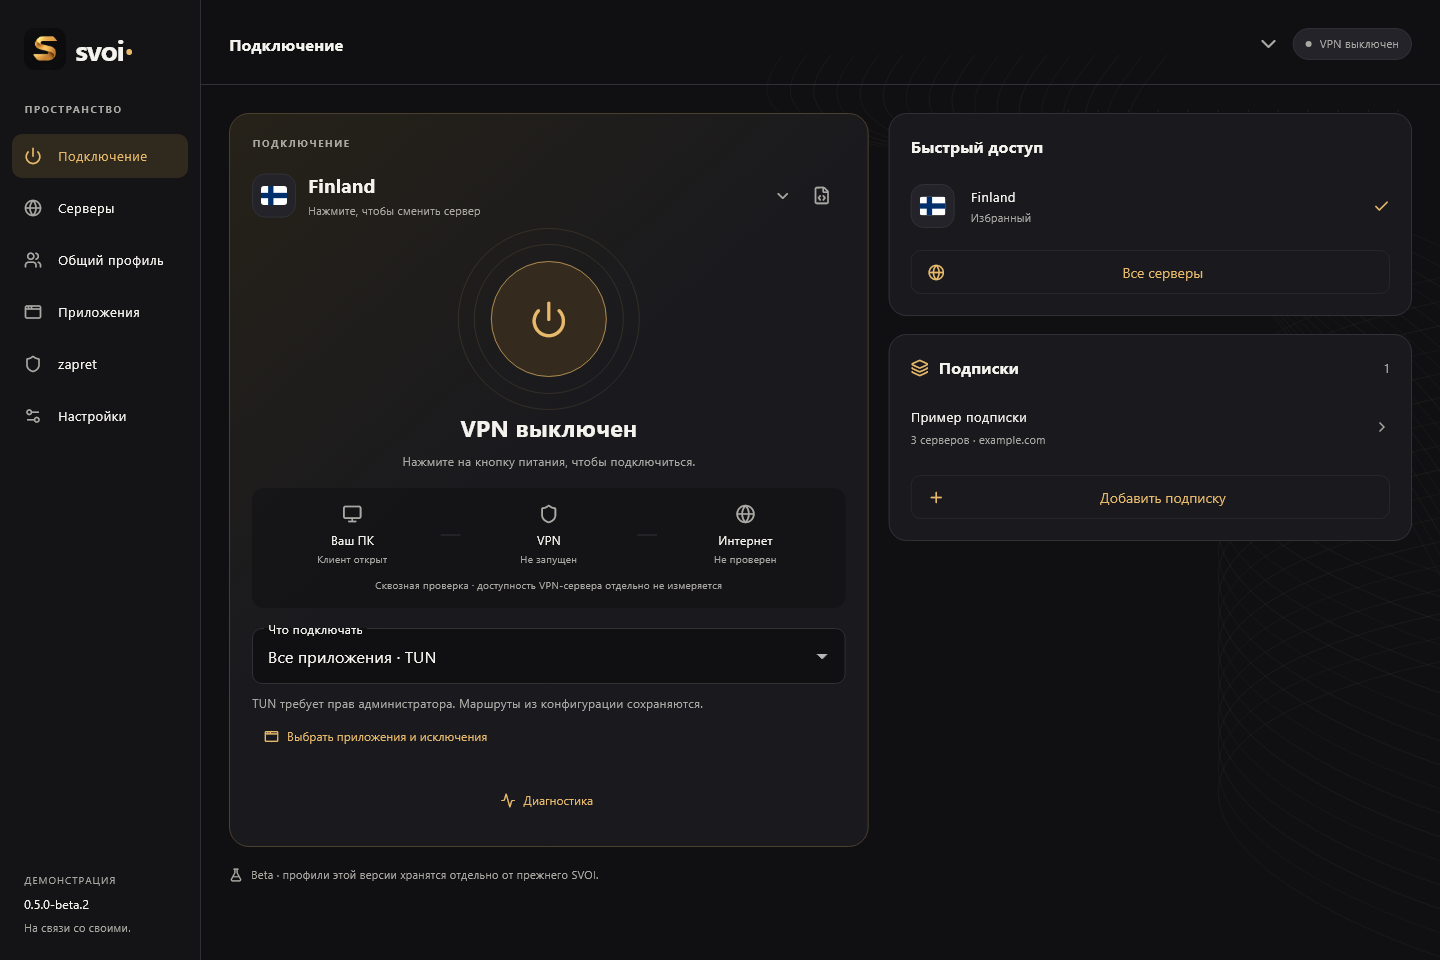
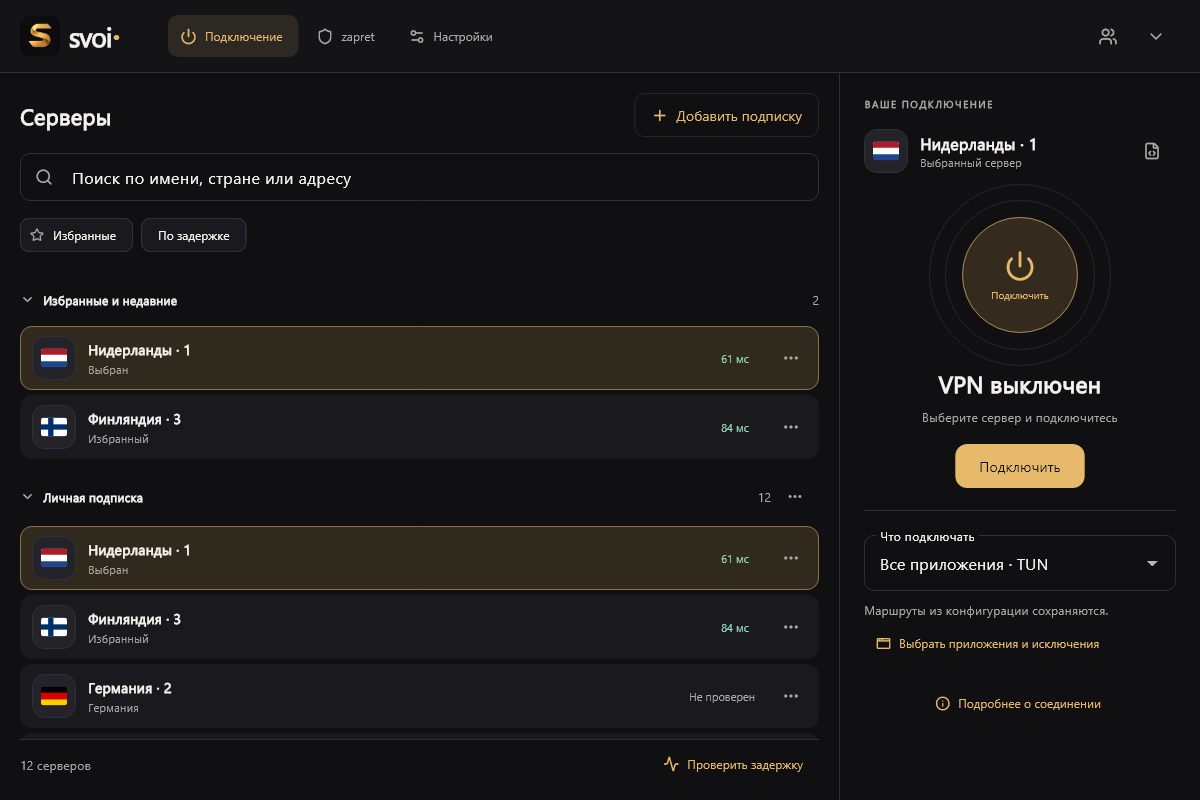
Release Windows beta.8 with unified connection UI

diff --git a/flutter_client/lib/features.dart b/flutter_client/lib/features.dart
@@ -1,6 +1,6 @@
 part of 'main.dart';
 
-const clientVersion = '0.5.0-beta.7';
+const clientVersion = '0.5.0-beta.8';
 
 class ConfigPane extends StatelessWidget {
   const ConfigPane({

diff --git a/backend/main.go b/backend/main.go
@@ -26,7 +26,7 @@ import (
 )
 
 var appVersion = "0.4.0-prebeta.3"
-var nativeVersion = "0.5.0-beta.7"
+var nativeVersion = "0.5.0-beta.8"
 
 //go:embed web/*
 var assets embed.FS

diff --git a/README.md b/README.md
@@ -16,7 +16,7 @@
 </p>
 
 <p align="center">
-  <a href="https://github.com/1atex/svoi/releases/download/v0.5.0-beta.7/SVOI-0.5.0-beta.7-windows-x64-setup.exe"><b>↓ Скачать для Windows</b></a>
+  <a href="https://github.com/1atex/svoi/releases/download/v0.5.0-beta.8/SVOI-0.5.0-beta.8-windows-x64-setup.exe"><b>↓ Скачать для Windows</b></a>
   &nbsp; · &nbsp;
   <a href="https://github.com/1atex/svoi/releases/download/android-v0.1.0-preview.6/SVOI-Android-0.1.0-preview.6-arm64.apk"><b>↓ Android APK · Preview</b></a>
   &nbsp; · &nbsp;
@@ -29,11 +29,11 @@
 
 ## Подключение без лишних экранов
 
-Выберите сервер и нажмите на кнопку включения. Режим подключения, подписки и быстрый доступ к избранному находятся рядом.
+Выберите сервер слева и подключитесь справа. В небольшом окне управление закреплено снизу. Подписки, избранное и проверка задержки доступны на одном экране; смена работающего сервера применяется кнопкой «Переключиться».
 
 <img src="docs/assets/overview.png" alt="Главный экран SVOI: кнопка подключения, режим TUN и подписки" width="100%">
 
-<sub>Настоящие компоненты интерфейса 0.5.0-beta.2 с демонстрационными данными. Адреса заменены на example.com; подключения и замеры на этих кадрах не выполнялись.</sub>
+<sub>Интерфейс 0.5.0-beta.8 с демонстрационными профилями и задержками; реальные подключения и замеры на этих кадрах не выполнялись.</sub>
 
 ## Всё необходимое — внутри
 
@@ -49,7 +49,7 @@
 
 <table>
   <tr>
-    <td width="50%"><img src="docs/assets/servers.png" alt="Поиск, избранное и проверка серверов"><br><b>Нужный сервер — в пару действий</b></td>
+    <td width="50%"><img src="docs/assets/servers.png" alt="Компактный экран с закреплённым подключением"><br><b>Управление всегда на виду</b></td>
     <td width="50%"><img src="docs/assets/applications.png" alt="Выбор приложений для TUN"><br><b>Решайте, какой трафик подключать</b></td>
   </tr>
 </table>
@@ -73,11 +73,11 @@
 
 ## Первый запуск
 
-1. **Установите SVOI.** [Установщик Windows x64](https://github.com/1atex/svoi/releases/download/v0.5.0-beta.7/SVOI-0.5.0-beta.7-windows-x64-setup.exe) уже содержит Xray, Wintun и необходимые библиотеки. WebView2 не нужен.
+1. **Установите SVOI.** [Установщик Windows x64](https://github.com/1atex/svoi/releases/download/v0.5.0-beta.8/SVOI-0.5.0-beta.8-windows-x64-setup.exe) уже содержит Xray, Wintun и необходимые библиотеки. WebView2 не нужен.
 2. **Добавьте свою подписку.** Вставьте ссылку или импортируйте конфигурацию из файла / текста.
-3. **Выберите сервер и режим.** Для TUN нужны права администратора. Нажмите на кнопку включения.
+3. **Выберите сервер и подключитесь.** На новой установке выбран TUN («Все приложения»); для него нужны права администратора. Сохранённый выбор режима при обновлении не меняется.
 
-Предпочитаете без установки? [Скачайте portable ZIP](https://github.com/1atex/svoi/releases/download/v0.5.0-beta.7/SVOI-0.5.0-beta.7-windows-x64.zip), распакуйте **весь архив** и запустите `svoi.exe`.
+Предпочитаете без установки? [Скачайте portable ZIP](https://github.com/1atex/svoi/releases/download/v0.5.0-beta.8/SVOI-0.5.0-beta.8-windows-x64.zip), распакуйте **весь архив** и запустите `svoi.exe`.
 
 Установщик предлагает запуск после установки. Ярлык на рабочем столе и запуск от имени администратора включены по умолчанию; флажки можно снять. При запуске с повышенными правами Windows покажет запрос UAC.
 
@@ -98,7 +98,7 @@
 
 ## Статус проекта
 
-**Windows: 0.5.0-beta.7 · x64. Android: 0.1.0-preview.6 · ARM64 и x86_64.** iOS пока не выпускается. SVOI использует ваши подписки; VPN-серверы в комплект не входят.
+**Windows: 0.5.0-beta.8 · x64. Android: 0.1.0-preview.6 · ARM64 и x86_64.** iOS пока не выпускается. SVOI использует ваши подписки; VPN-серверы в комплект не входят.
 
 Android — отдельная экспериментальная сборка: [APK для ARM64-телефонов](https://github.com/1atex/svoi/releases/download/android-v0.1.0-preview.6/SVOI-Android-0.1.0-preview.6-arm64.apk), [APK для эмулятора x86_64](https://github.com/1atex/svoi/releases/download/android-v0.1.0-preview.6/SVOI-Android-0.1.0-preview.6-x64.apk), [инструкция и исходники Android](https://github.com/1atex/svoi/blob/android-preview/docs/ANDROID.md). Обновления проверяются и скачиваются из приложения; установку подтверждает пользователь. При переходе с Preview 5 сохраните коды профилей и переустановите приложение: начиная с Preview 6 используется постоянная подпись.
 

diff --git a/flutter_client/README.md b/flutter_client/README.md
@@ -1,10 +1,10 @@
-# SVOI — 0.5.0-beta.7
+# SVOI — 0.5.0-beta.8
 
 Windows-клиент на Flutter 3.47 / Dart 3.13. Сетевой движок и обработка подписок остаются в Go / Xray. Устанавливается отдельно от прежнего WebView-клиента.
 
 ## Запуск
 
-Запустите установщик `SVOI-0.5.0-beta.7-windows-x64-setup.exe`: он создаст ярлыки и предложит запустить приложение. Для portable-версии распакуйте **весь архив** и запустите `svoi.exe`. В архив входят Go-сервис, Xray, Wintun, базы GeoIP/GeoSite и библиотеки Visual C++. WebView2 этому окну не нужен. В установщике ярлык на рабочем столе и запуск от администратора для TUN / zapret включены по умолчанию; флажки можно снять. Windows запрашивает UAC при запуске. Проверку начинайте с отключённым VPN в основном клиенте.
+Запустите установщик `SVOI-0.5.0-beta.8-windows-x64-setup.exe`: он создаст ярлыки и предложит запустить приложение. Для portable-версии распакуйте **весь архив** и запустите `svoi.exe`. В архив входят Go-сервис, Xray, Wintun, базы GeoIP/GeoSite и библиотеки Visual C++. WebView2 этому окну не нужен. В установщике ярлык на рабочем столе и запуск от администратора для TUN / zapret включены по умолчанию; флажки можно снять. Windows запрашивает UAC при запуске. Проверку начинайте с отключённым VPN в основном клиенте.
 
 Данные находятся в `%APPDATA%/SVOI`; прежняя папка переносится автоматически с резервной копией. Подписку можно добавить ссылкой, текстом конфигурации или кодом переноса SVOI1. Перед импортом показан состав профиля; можно добавить новый или подтвердить замену текущего. Повторный запуск SVOI поднимает уже открытое окно.
 
@@ -53,7 +53,7 @@ Windows x64, Flutter 3.47.7, Go 1.26, Visual Studio с C++ Desktop workload, Inn
 ./flutter_client/build-prototype.ps1 -FlutterSdk C:/path/to/flutter
 ```
 
-Скрипт выполняет анализ, тесты, release-сборку, добавляет runtime и создаёт ZIP и установщик с SHA256 в `releases/v0.5.0-beta.7`. Перед упаковкой проверяются имя приложения и все кадры иконок окна / трея внутри собранного EXE. SDK и артефакты не попадают в Git. `-SkipChecks` нужен только для повторной упаковки уже проверенных исходников.
+Скрипт выполняет анализ, тесты, release-сборку, добавляет runtime и создаёт ZIP и установщик с SHA256 в `releases/v0.5.0-beta.8`. Перед упаковкой проверяются имя приложения и все кадры иконок окна / трея внутри собранного EXE. SDK и артефакты не попадают в Git. `-SkipChecks` нужен только для повторной упаковки уже проверенных исходников.
 
 Backend запускается дочерним процессом на случайном loopback-порту; одноразовый ключ передаётся через pipe, а не командную строку. При закрытии stdin сервис останавливает Xray и восстанавливает настройки системного прокси. Токены локальных профилей хранятся в session.json, как секрет профиля: не публикуйте эту папку.
 

diff --git a/flutter_client/RELEASE-NOTES.md b/flutter_client/RELEASE-NOTES.md
@@ -1,10 +1,14 @@
-# SVOI 0.5.0-beta.7
+# SVOI 0.5.0-beta.8
 
-Исправление запуска приложения вместе с Windows.
+Серверы и управление VPN теперь на одном экране.
 
-- Если при входе в Windows не удаётся создать значок в трее или получить состояние zapret, SVOI сохраняет работающий локальный сервис и показывает окно с предупреждением. Настройки, обновления и VPN остаются доступны.
-- Исправлено состояние, при котором открытое окно обращалось к уже закрытому сервису и показывало «Запрос отменён» во всех разделах.
-- Остановка локального сервиса теперь явно отличается от отмены отдельного запроса.
-- Исходники backend и сборочные скрипты разложены по папкам; инструкции и GitHub Actions обновлены.
+- Список серверов расположен слева, подключение и состояние — справа. В небольшом окне управление закреплено снизу и остаётся доступным при прокрутке.
+- Подписки можно сворачивать. Избранные и недавние серверы находятся сверху; поиск, сортировка и проверка задержки доступны рядом со списком.
+- Нажатие на сервер выбирает его. При работающем VPN кнопка «Переключиться» явно применяет новый выбор; отключение остаётся отдельным действием.
+- Навигация сокращена до подключения, zapret и настроек. Профили и перенос доступны сверху, конфигурация — через меню сервера, диагностика — в подробностях соединения.
+- При первом запуске сразу предлагается добавить подписку или импортировать профиль.
+- На новой установке по умолчанию выбран TUN («Все приложения»). Сохранённый режим существующих пользователей не меняется; автоматическое подключение не включается.
 
-Проверены сценарии сбоя трея, ошибки запроса zapret и ошибки инициализации. Исправления автозапуска и завершения Xray из beta.6 сохранены.
+Проверены окно 800×600, масштаб текста 150%, управление с клавиатуры и сценарии переключения сервера. Эта версия меняет UX; ускорение VPN и снижение потребления памяти не заявляются.
+
+Установщик и portable ZIP содержат Xray, Wintun и необходимые библиотеки. Для portable-версии распакуйте весь архив. TUN требует прав администратора.
